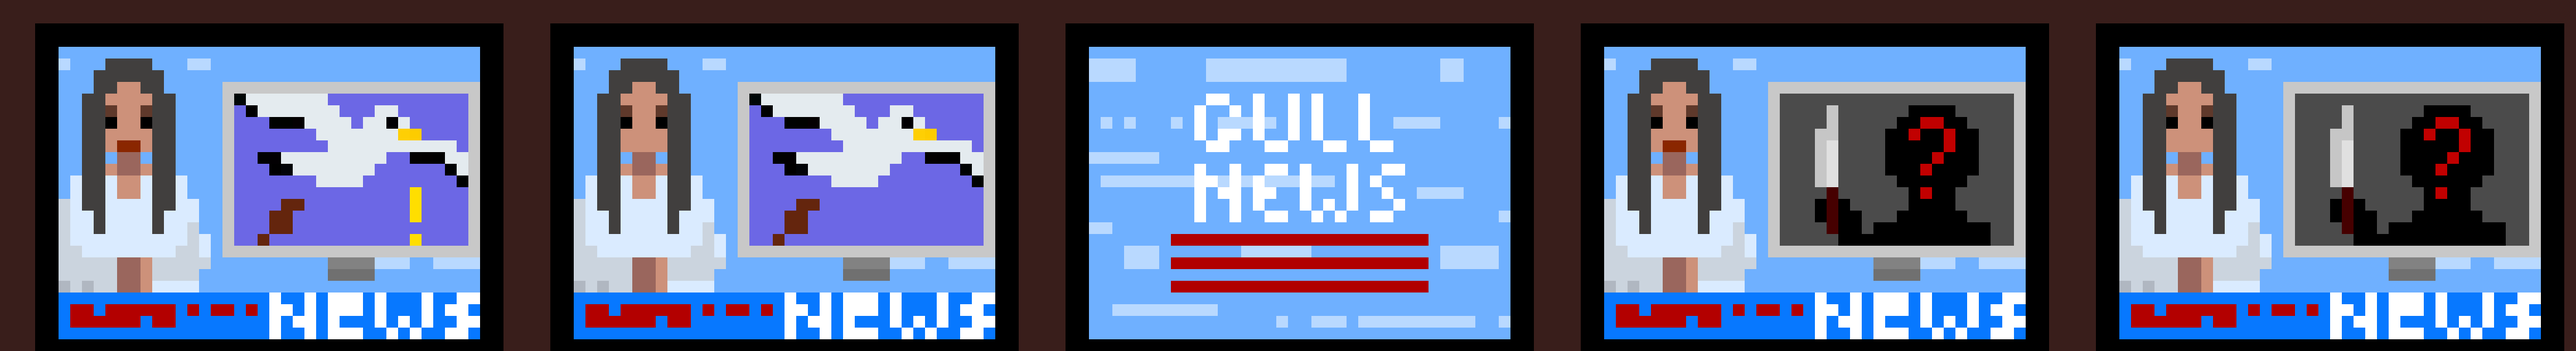
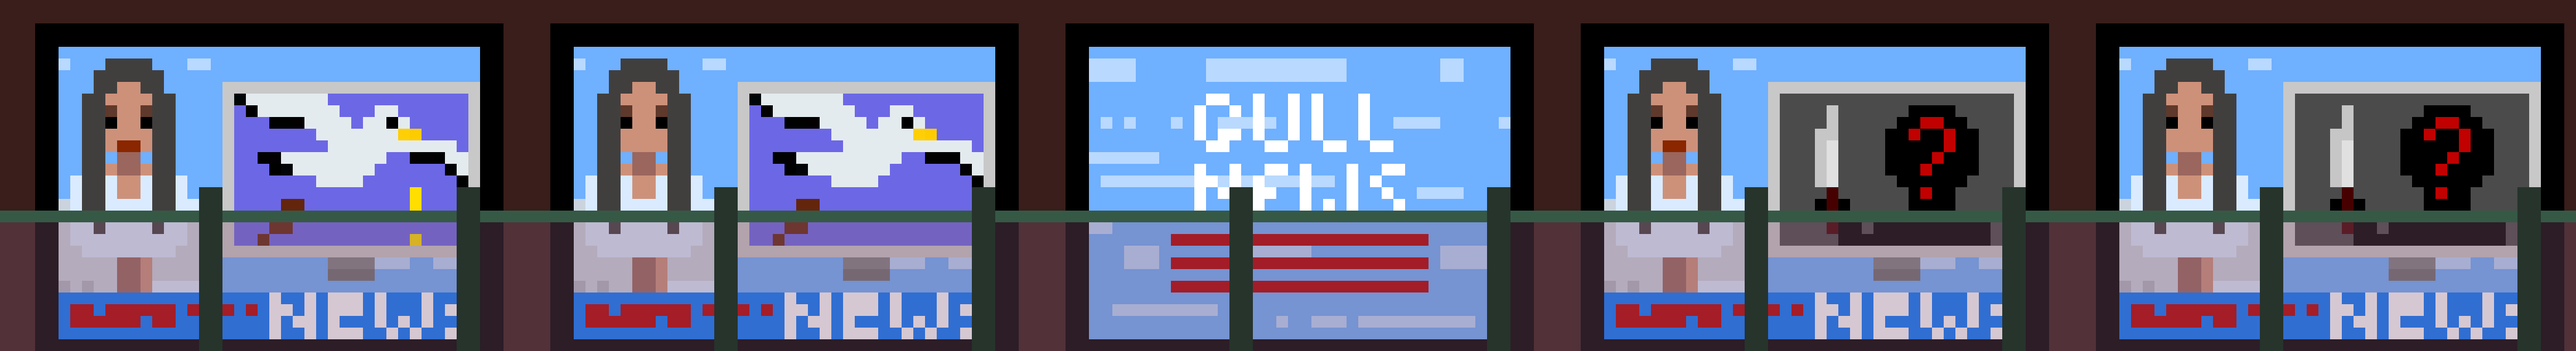
tv code

diff --git a/src/js/tv.js b/src/js/tv.js
@@ -8,31 +8,34 @@ export class Tv extends Actor {
     constructor(x, y) {
         super({
             pos: new Vector(x, y),
-            
+
         });
         this.graphics.use(Resources.Tv.toSprite());
-    this.z = 11
+        this.scale = new Vector(1, 1);
+
+    this.z = 5
     
     }
 
 
     onInitialize(engine) {
-
         const tvSpritesheet = SpriteSheet.fromImageSource({
             image: Resources.Tv,
             grid: {
                 rows: 1,
                 columns: 5,
-                spriteWidth: 860,
+                spriteWidth: 880,
                 spriteHeight: 600
             },
         });
 
-        this.tv = Animation.fromSpriteSheet(tvSpritesheet, range(0, 1), 300, AnimationStrategy.Loop)
+        const tvAnimation = Animation.fromSpriteSheet(tvSpritesheet, range(0, 4), 2000, AnimationStrategy.Loop);
 
-        this.graphics.add("tv", Tv)
+        // Add the animation to the graphics component
+        this.graphics.add("tv", tvAnimation);
 
-
+        // Use the animation
+        this.graphics.use("tv");
     }
 }
 

diff --git a/src/js/level2.js b/src/js/level2.js
@@ -32,9 +32,9 @@ export class Level2 extends Scene {
         this.add(new Wall(0, 1500, 10, 3000));
         this.add(new Wall(5120, 0, 10240, 100));
         this.add(new Floor(0, 2560));
-        this.add(new Fries(8000, 1400))
+        this.add(new Fries(7300, 1900))
 
-        const tv = new Tv(0, 0)
+        const tv = new Tv(1660, 1560)
         this.add(tv)
 
     
